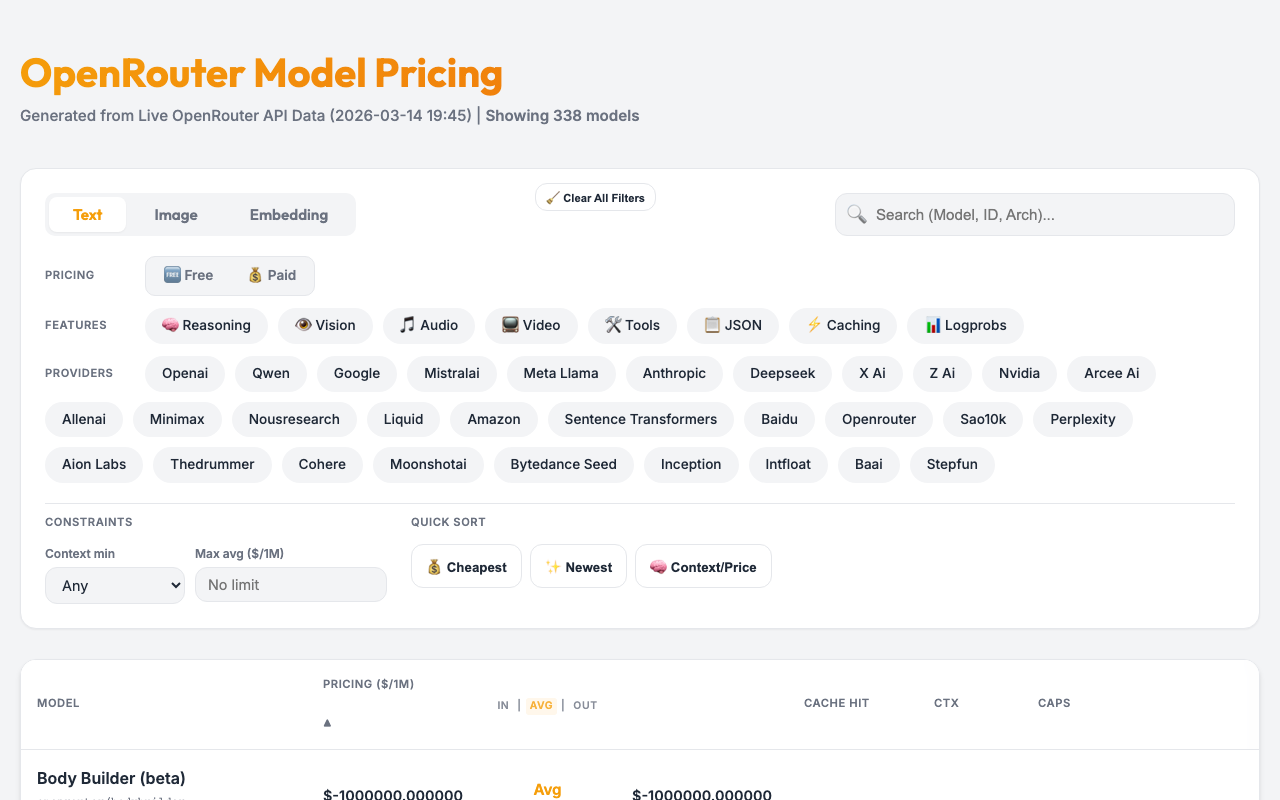
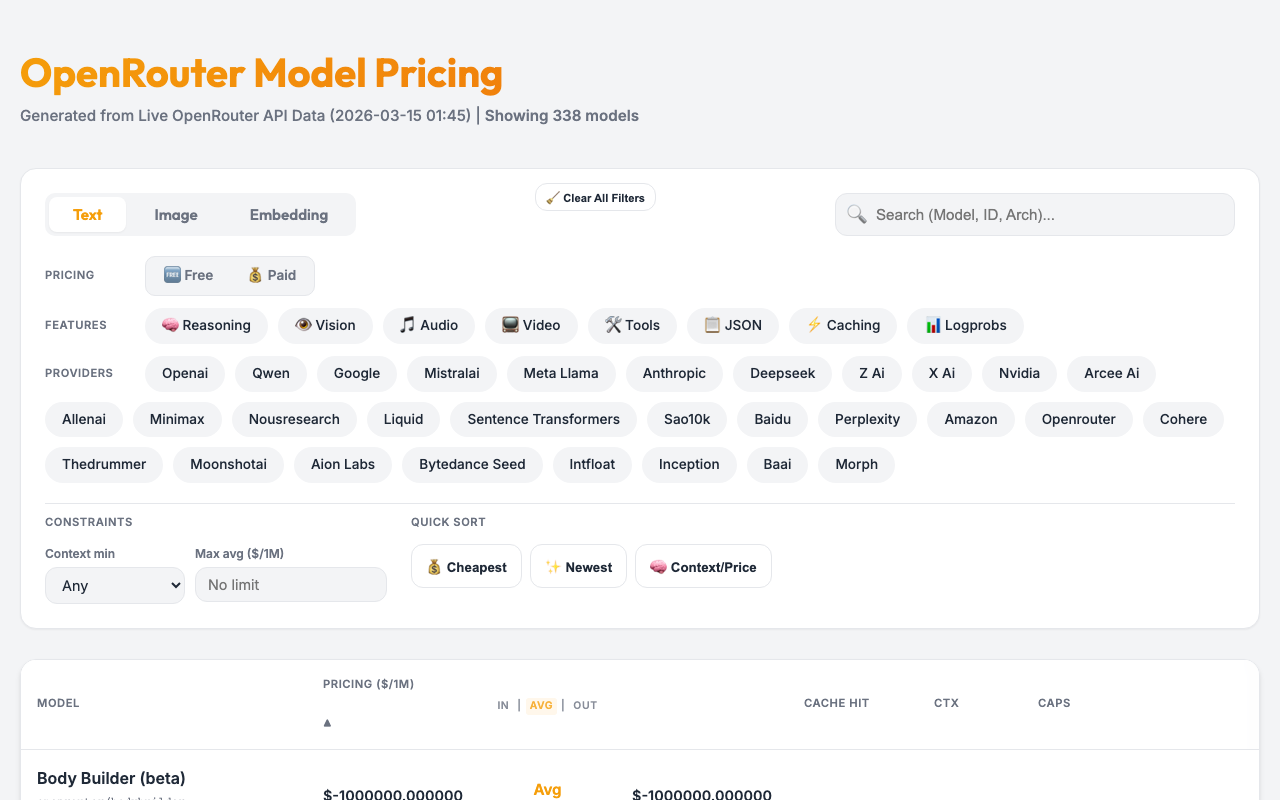
chore: automated pricing update (2026-03-15 01:45:23)
🔄 Changed Models (1): minimax/minimax-m2.5

diff --git a/docs/index.html b/docs/index.html
@@ -634,7 +634,7 @@
     <div class="container">
         <header>
             <h1>OpenRouter Model Pricing</h1>
-            <div class="meta">Generated from Live OpenRouter API Data (2026-03-14 19:45)</div>
+            <div class="meta">Generated from Live OpenRouter API Data (2026-03-15 01:45)</div>
         </header>
 
         <div class="controls">
@@ -2108,13 +2108,12 @@
         "instruct_type": null
       },
       "pricing": {
-        "prompt": "0.00000027",
-        "completion": "0.00000095",
-        "input_cache_read": "0.0000000299999997"
+        "prompt": "0.00000025",
+        "completion": "0.0000012"
       },
       "top_provider": {
         "context_length": 196608,
-        "max_completion_tokens": null,
+        "max_completion_tokens": 196608,
         "is_moderated": false
       },
       "per_request_limits": null,
@@ -18723,7 +18722,7 @@
   ],
   "other": []
 };
-        window.providerOptions = ['openai', 'qwen', 'google', 'mistralai', 'meta-llama', 'anthropic', 'deepseek', 'x-ai', 'z-ai', 'nvidia', 'arcee-ai', 'allenai', 'minimax', 'nousresearch', 'liquid', 'amazon', 'sentence-transformers', 'baidu', 'openrouter', 'sao10k', 'perplexity', 'aion-labs', 'thedrummer', 'cohere', 'moonshotai', 'bytedance-seed', 'inception', 'intfloat', 'baai', 'stepfun', 'microsoft', 'morph', 'relace', 'inflection', 'thenlper', 'nex-agi', 'cognitivecomputations', 'gryphe', 'undi95', 'writer', 'tencent', 'switchpoint', 'anthracite-org', 'eleutherai', 'ibm-granite', 'essentialai', 'tngtech', 'bytedance', 'ai21', 'mancer', 'deepcogito', 'alfredpros', 'upstage', 'alpindale', 'xiaomi', 'kwaipilot', 'alibaba', 'meituan', 'prime-intellect'];
+        window.providerOptions = ['openai', 'qwen', 'google', 'mistralai', 'meta-llama', 'anthropic', 'deepseek', 'z-ai', 'x-ai', 'nvidia', 'arcee-ai', 'allenai', 'minimax', 'nousresearch', 'liquid', 'sentence-transformers', 'sao10k', 'baidu', 'perplexity', 'amazon', 'openrouter', 'cohere', 'thedrummer', 'moonshotai', 'aion-labs', 'bytedance-seed', 'intfloat', 'inception', 'baai', 'morph', 'stepfun', 'microsoft', 'inflection', 'thenlper', 'relace', 'kwaipilot', 'tngtech', 'prime-intellect', 'mancer', 'ibm-granite', 'meituan', 'essentialai', 'ai21', 'xiaomi', 'nex-agi', 'tencent', 'upstage', 'alpindale', 'switchpoint', 'gryphe', 'undi95', 'deepcogito', 'anthracite-org', 'bytedance', 'alibaba', 'eleutherai', 'writer', 'alfredpros', 'cognitivecomputations'];
         let currentTab = 'text';
         let sortKey = 'price_avg';
         let sortAsc = true;
